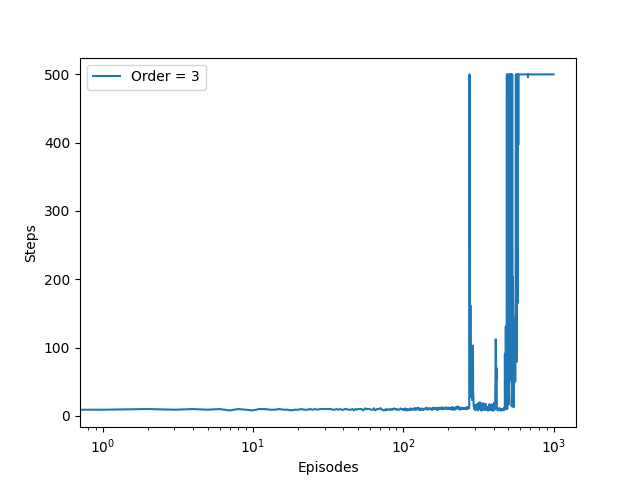
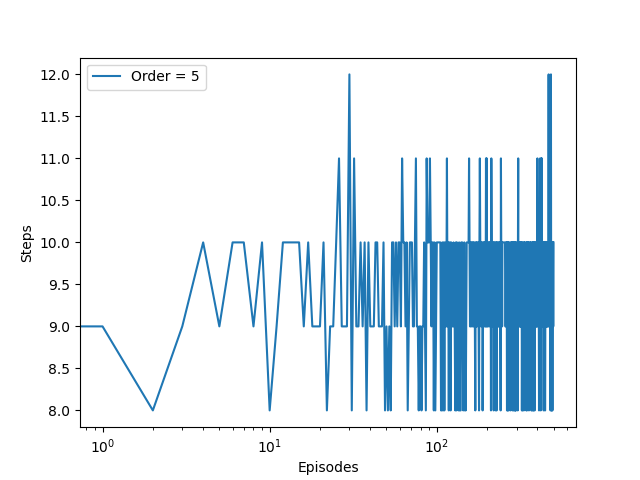
...

diff --git a/PA4/run_me.py b/PA4/run_me.py
@@ -10,13 +10,14 @@ from CartPole import CartPole
 from SarsaLambda import SarsaLambda as sl
 
 LAMBDA = 0.9
-ALPHA = 0.005
+ALPHA = 0.001
 GAMMA = 1.0
 EPSILON = 0.01
-ORDER = 3
-EPISODES = 1000
+ORDER = 5
+EPISODES = 500
+MAX_STEPS = 500
+
 RUNS = 1
-MAX_STEPS = 1000
 JOBS = max(min(cpu_count() - 1, RUNS), 1)
 
 
@@ -79,14 +80,14 @@ def main():
 
 
 def animate():
-    weights = np.load('weights/O(3)-Weights')['arr_0']
-    sarsa_lam = sl(CartPole(), LAMBDA, ALPHA, GAMMA, EPSILON, ORDER, weights=weights)
+    # weights = np.load(f'weights/O({ORDER})-Weights')['arr_0']
+    sarsa_lam = sl(CartPole(), LAMBDA, ALPHA, GAMMA, EPSILON, ORDER)  # , weights=weights)
     episodes = 1
     while True:
-        sarsa_lam.playEpisode(episodes)
+        sarsa_lam.learnEpisode(episodes, animate=True)
         episodes += 1
 
 
 if __name__ == '__main__':
-    # main()
-    animate()
+    main()
+    # animate()
